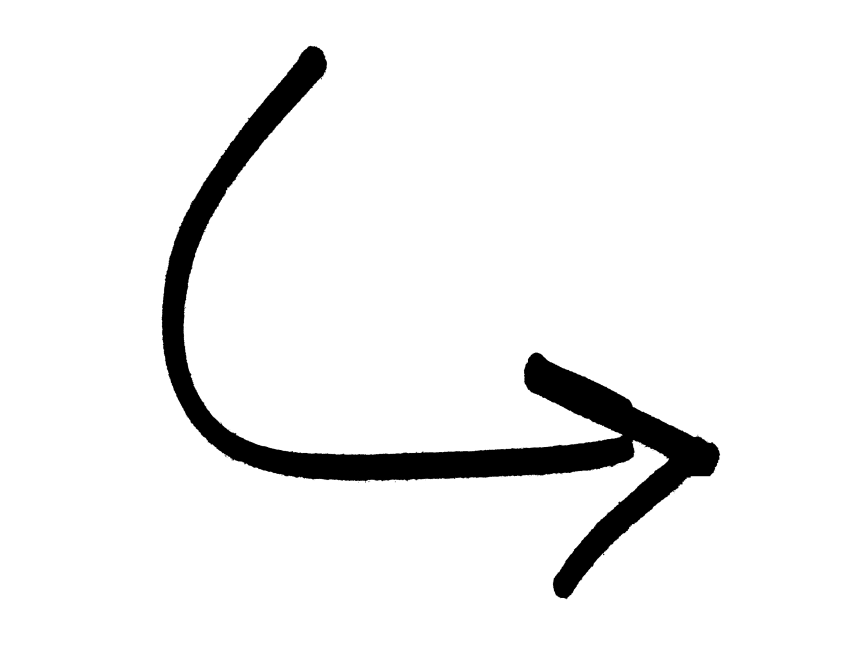
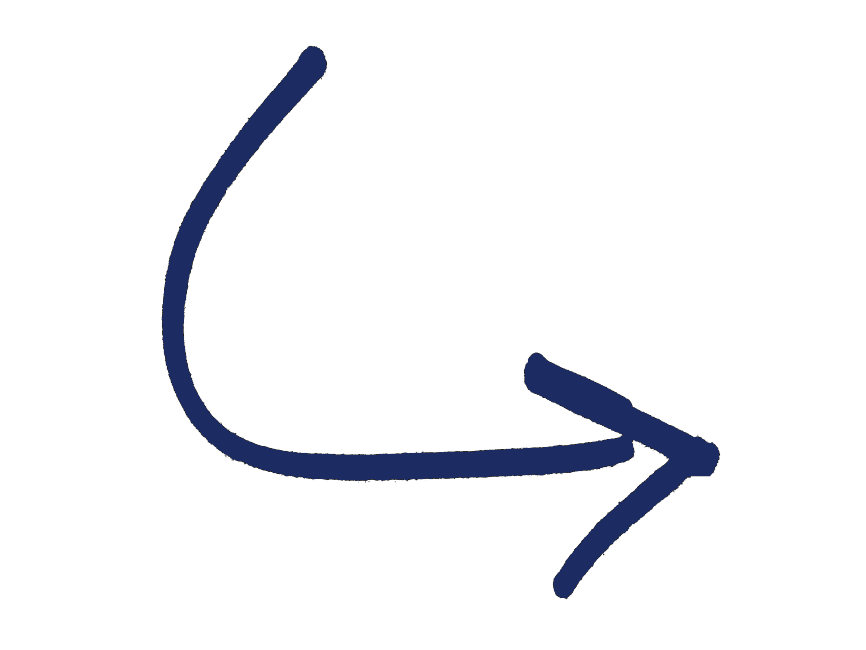
Ui changes

Changed region(s): [[0.1871, 0.0615, 0.8418, 0.9231]]

diff --git a/JJonahJamesonBot/wwwroot/js/app.js b/JJonahJamesonBot/wwwroot/js/app.js
@@ -2,6 +2,7 @@
 
 const fileInput = document.getElementById('file-upload');
 const imageContainer = document.getElementById('file-upload-label');
+const fileInputText = document.getElementById('file-upload-text');
 
 fileInput.onchange = () => {
     const file = fileInput.files[0];
@@ -9,12 +10,12 @@ fileInput.onchange = () => {
 
     fileURL = window.URL.createObjectURL(file);
 
-    imageContainer.innerHTML = "";
+    fileInputText.innerHTML = '';
     imageContainer.style.backgroundImage = `url(${fileURL})`;
 }
 
 submitBtn.onclick = () => {
-    const body = document.getElementsByTagName('body')[0];
+    const theMan = document.getElementById('the-man-container');
     const loadSpinner = document.getElementById('load-spinner');
     const file = fileInput.files[0];
 
@@ -24,10 +25,11 @@ submitBtn.onclick = () => {
     reader.onload = () => {
         $.post("api/JJonahJameson", { imageBase64: reader.result.split(',')[1] }, (data) => {
             if (data == "spiderman") {
-                body.innerHTML = '<iframe id="response-video" src="https://www.youtube.com/embed/b5G9reMt5FE?start=87&end=97&autoplay=1" title="YouTube video player" frameborder="0" allow="accelerometer; autoplay; clipboard-write; encrypted-media; gyroscope; picture-in-picture" allowfullscreen></iframe>'
+                theMan.innerHTML = '<iframe id="the-man" style="height:432px;" class="mb-4" src="https://www.youtube.com/embed/b5G9reMt5FE?start=87&end=97&autoplay=1" title="YouTube video player" frameborder="0" allow="accelerometer; autoplay; clipboard-write; encrypted-media; gyroscope; picture-in-picture" allowfullscreen></iframe>'
             } else {
-                body.innerHTML = '<iframe id="response-video" src="https://www.youtube.com/embed/b5G9reMt5FE?start=98&end=117&autoplay=1" title="YouTube video player" frameborder="0" allow="accelerometer; autoplay; clipboard-write; encrypted-media; gyroscope; picture-in-picture" allowfullscreen></iframe>'
+                theMan.innerHTML = '<iframe id="the-man" style="height:432px;" class="mb-4" src="https://www.youtube.com/embed/b5G9reMt5FE?start=98&end=104&autoplay=1" title="YouTube video player" frameborder="0" allow="accelerometer; autoplay; clipboard-write; encrypted-media; gyroscope; picture-in-picture" allowfullscreen></iframe>'
             }
+            loadSpinner.style.display = "none";
         })
     }
 

diff --git a/JJonahJamesonBot/wwwroot/css/page.css b/JJonahJamesonBot/wwwroot/css/page.css
@@ -1,10 +1,11 @@
 body {
-    background-color: rgb(255,246,228);
+    background-color: rgb(215,244,251);
     font-family: 'Comic Neue', sans-serif
 }
 
 #the-man {
-    width: 100%
+    width: 100%;
+    border-radius: 2em;
 }
 
 #arrow {
@@ -12,22 +13,21 @@
 }
 
 #give-button {
-    background-color: black;
-    color: white;
+    background-color: white;
+    color: rgb(28, 43, 98);
     padding: 1em;
     font-weight: 700;
     font-size: 2em;
-    border: none;
+    border: solid 2px rgb(28, 43, 98);
     border-radius: 3em;
-    transition: background-color 0.15s;
+    outline: none;
+    transition: background-color 0.15s, color 0.15s, border 0.15s;
 }
 
 #give-button:hover {
-    background-color: dimgray;
-}
-
-#give-button:active {
-    background-color: darkgray;
+    background-color: rgb(250,238,237);
+    border: solid 2px rgb(183,53,41);
+    color: rgb(183,53,41);
 }
 
 #button-row {
@@ -36,7 +36,7 @@
 
 #load-spinner {
     display:none;
-    width:12%;
+    width:25%;
 }
 
 #file-container {
@@ -63,32 +63,20 @@
     bottom: 0;
     left: 0;
     right: 0;
-    border: solid 2px black;
-    border-radius: 1em;
+    border: solid 2px rgb(28, 43, 98);
+    border-radius: 0.75em;
     font-size: 5em;
     font-family: 'Lato';
     font-weight: 900;
-    color: black;
+    color: rgb(28, 43, 98);
     text-align: center;
     padding-top: 30%;
     cursor: pointer;
-    transition: color 0.2s, border 0.2s;
+    transition: color 0.2s, border 0.2s, background-color 0.2s;
 }
 
 #file-upload-label:hover {
-    border: solid 2px dimgray;
-    color: dimgray;
-}
-
-#file-upload-label:active {
-    border: solid 2px darkgray;
-    color: darkgray;
-}
-
-#response-video {
-    position: absolute;
-    top: 0;
-    left: 0;
-    width: 100%;
-    height: 100%;
+    background-color: rgb(250,238,237);
+    border: solid 2px rgb(183,53,41);
+    color: rgb(183,53,41);
 }

diff --git a/JJonahJamesonBot/Controllers/JJonahJamesonController.cs b/JJonahJamesonBot/Controllers/JJonahJamesonController.cs
@@ -27,9 +27,11 @@ namespace JJonahJamesonBot.Controllers
             ModelInput input = new ModelInput();
             input.Image = image;
 
-            ModelOutput prediction = _predictionEnginePool.Predict(modelName: "JJonahJamesonModel", example: input);
+            //ModelOutput prediction = _predictionEnginePool.Predict(modelName: "JJonahJamesonModel", example: input);
 
-            string classification = prediction.PredictedLabel;
+            //string classification = prediction.PredictedLabel;
+
+            string classification = "spiderman";
 
             return classification;
         }
@@ -41,9 +43,17 @@ namespace JJonahJamesonBot.Controllers
             ModelInput input = new ModelInput();
             input.Image = imageBytes;
 
-            ModelOutput prediction = _predictionEnginePool.Predict(modelName: "JJonahJamesonModel", example: input);
+            string classification;
+            try
+            {
+                ModelOutput prediction = _predictionEnginePool.Predict(modelName: "JJonahJamesonModel", example: input);
 
-            string classification = prediction.PredictedLabel;
+                classification = prediction.PredictedLabel;
+            }
+            catch (Exception ex)
+            {
+                classification = $"Source: {ex.Source} Name: {ex.GetType().Name} Message: {ex.Message} Inner Exception: {ex.InnerException}";
+            }
 
             return Ok(classification);
         }

diff --git a/JJonahJamesonBotTrainer/Program.cs b/JJonahJamesonBotTrainer/Program.cs
@@ -1,0 +1,12 @@
+using System;
+
+namespace JJonahJamesonBotTrainer
+{
+    class Program
+    {
+        static void Main(string[] args)
+        {
+            Console.WriteLine("Hello World!");
+        }
+    }
+}
